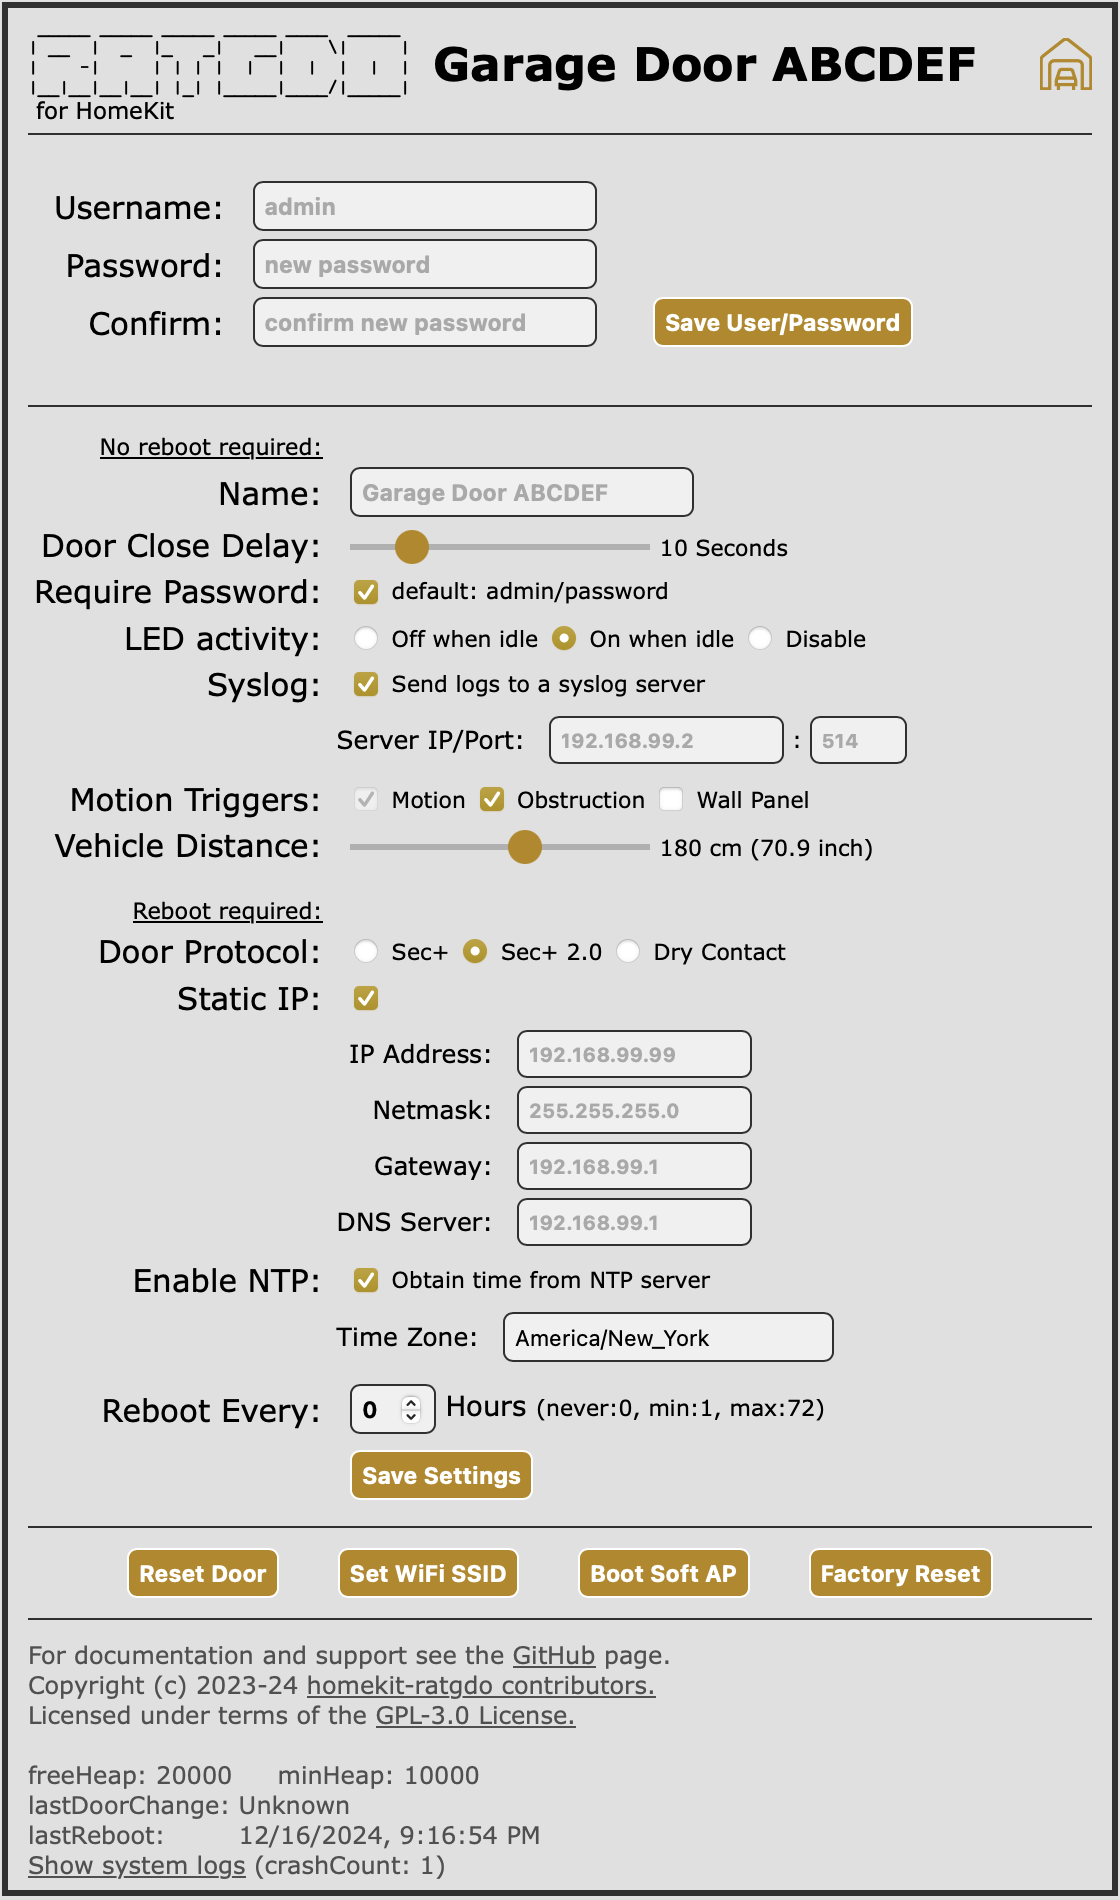
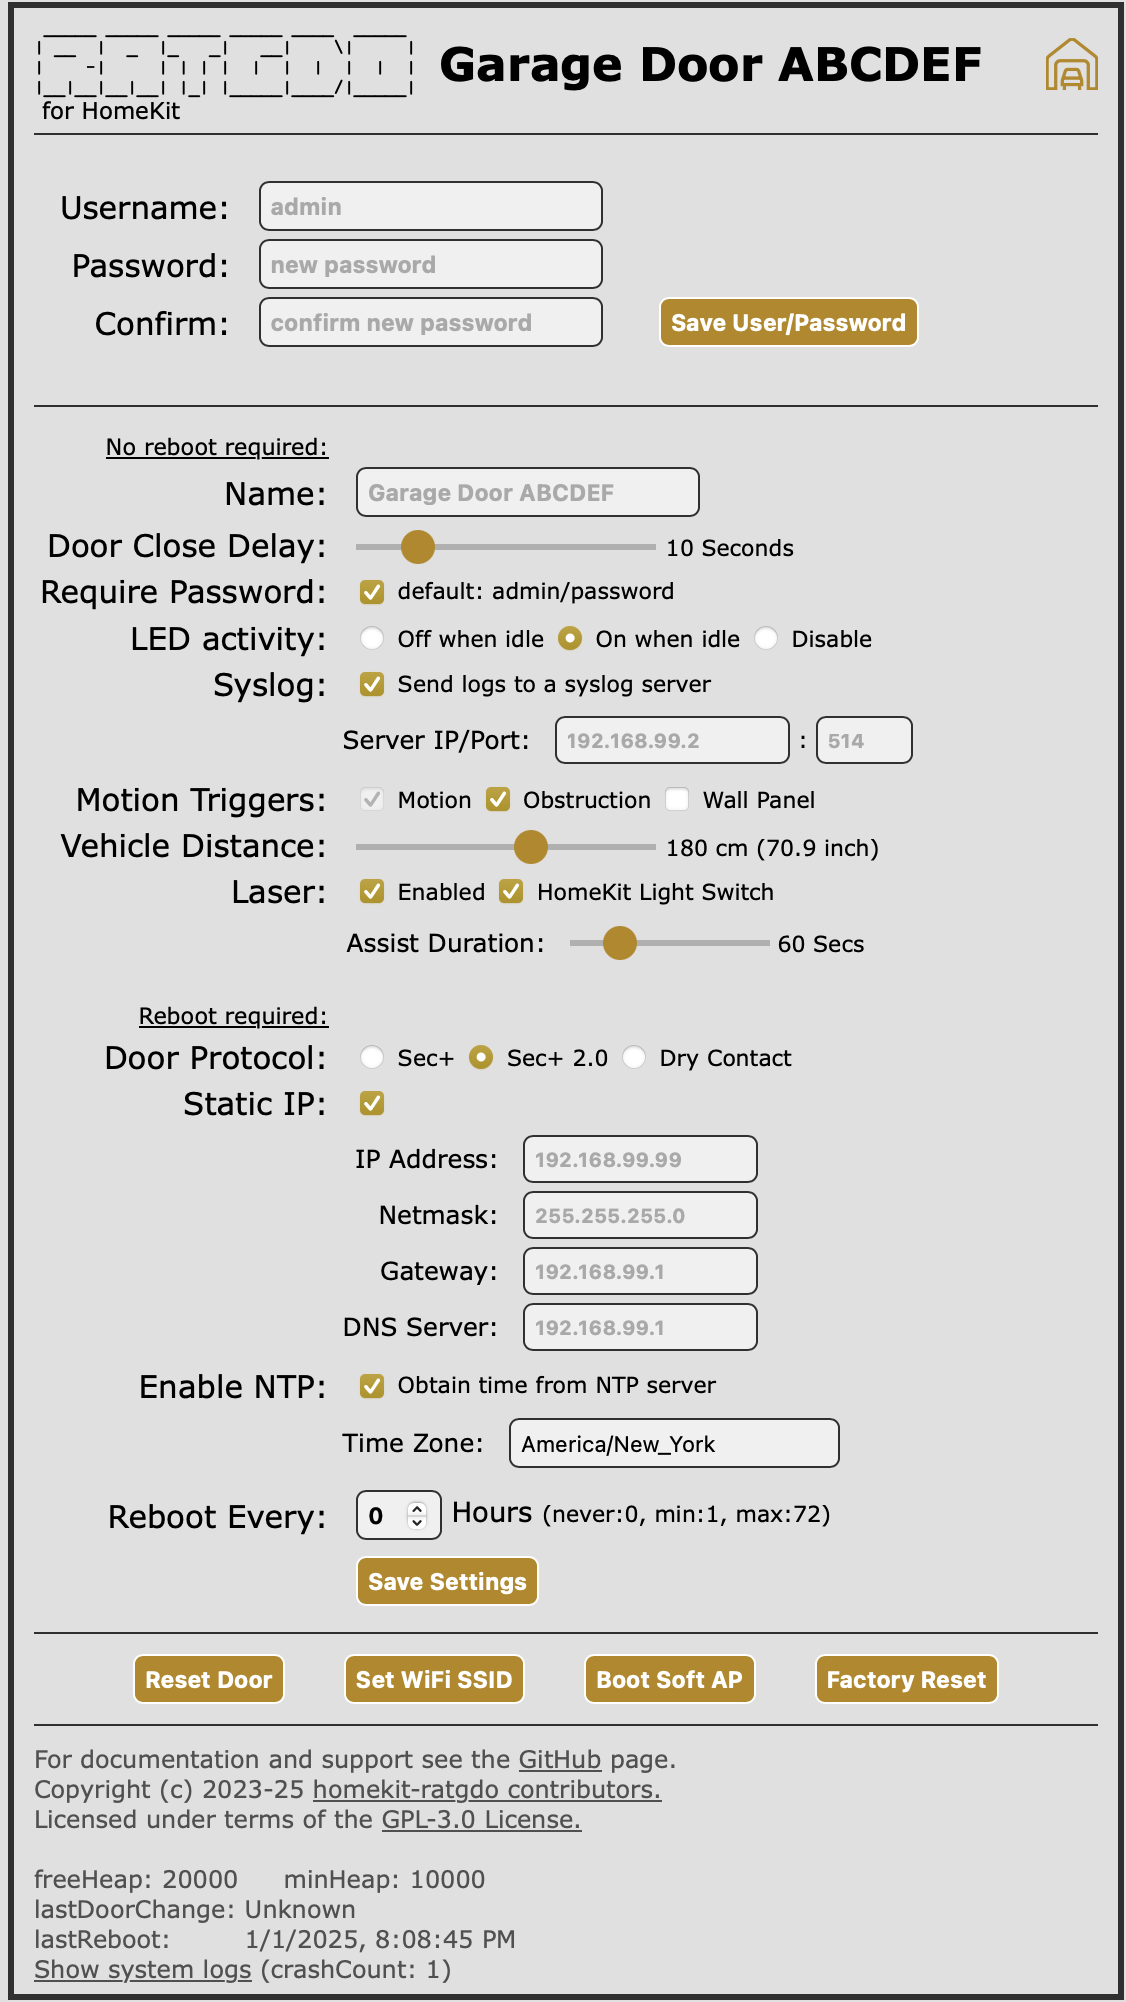
Add user setting for parking assist laser duration. Update README, CHANGELOG, webpage screen shots

diff --git a/src/www/index.html b/src/www/index.html
@@ -2,7 +2,7 @@
 <html lang="en">
 
 <head>
-  <!--  Copyright (c) 2023-24 David Kerr, https://github.com/dkerr64 -->
+  <!--  Copyright (c) 2023-25 David Kerr, https://github.com/dkerr64 -->
   <meta charset="UTF-8">
   <meta name="viewport" content="width=device-width, initial-scale=1.0, maximum-scale=1.0, user-scalable=1">
   <meta name="apple-mobile-web-app-title" content="RATDGO">
@@ -37,7 +37,7 @@
         <div style="float:right;vertical-align: middle; padding-left: 0; padding-right: 0; cursor: pointer;">
           <img id="settings-icon" src="settings-sliders.svg?v=CRC-32" alt="Settings" style="width:1.5em;height:1.5em;">
           <img id="main-icon" src="garage-car.svg?v=CRC-32" alt="Homepage" onclick="history.back()"
-            style="display:none; width:1.5em;height:1.5em;">
+            style="display:none; width:1.5em; height:1.5em;">
         </div>
       </div>
       <!-- Main section of page ------------------------------------------------------------------>
@@ -188,7 +188,7 @@
             <table class="settings">
               <tr>
                 <td style="font-size: 0.65em;"><u>No reboot required:</u></td>
-                <td></td>
+                <td style="width: 70%;"></td>
               </tr>
               <tr>
                 <td class="label">Name:</td>
@@ -274,13 +274,29 @@
                 </td>
               </tr>
               <tr id="laserSetting" style="display:none;">
-                <td class="label">Park Assist Laser:</td>
+                <td class="label">Laser:</td>
                 <td>&nbsp;
                   <input type="checkbox" id="laserEnabled" name="laserEnabled" value="no"
                     onchange="enableLaser(this.checked)">
                   <label for="laserEnabled">Enabled</label>
                   <input type="checkbox" id="laserHomeKit" name="laserHomeKit" value="no" disabled>
                   <label for="laserHomeKit">HomeKit Light Switch</label>
+                </td>
+              </tr>
+              <tr>
+                <td></td>
+                <td>
+                  <table class="settings" id="parkAssist" style="display: none;">
+                    <tr>
+                      <td class="label">Assist Duration:</td>
+                      <td>&nbsp;
+                        <input type="range" min="0" max="300" value="60" id="assistDuration" name="assistDuration"
+                          class="slider" style="width:100px;">
+                        <span style="vertical-align: middle;"><span
+                            id="assistValue"></span>&nbsp;Secs</span>
+                      </td>
+                    </tr>
+                  </table>
                 </td>
               </tr>
               <tr>
@@ -423,7 +439,7 @@
       <div class="footer">
         <p style="margin:0px;">For documentation and support see the <a
             href="https://github.com/ratgdo/homekit-ratgdo32">GitHub</a>
-          page.<br>Copyright (c) 2023-24 <a
+          page.<br>Copyright (c) 2023-25 <a
             href="https://github.com/ratgdo/homekit-ratgdo32/graphs/contributors">homekit-ratgdo
             contributors.</a><br>Licensed under terms of the <a
             href="https://www.gnu.org/licenses/gpl-3.0.en.html">GPL-3.0
@@ -630,7 +646,14 @@
     vDistSlider.oninput = function () {
       vDistText1.innerHTML = this.value;
       vDistText2.innerHTML = Math.round(this.value / .254) / 10;
-    }
+    };
+
+    PAslider = document.getElementById("assistDuration");
+    PAtext = document.getElementById("assistValue");
+    PAtext.innerHTML = PAslider.value;
+    PAslider.oninput = function () {
+      PAtext.innerHTML = this.value;
+    };
   </script>
 </body>
 

diff --git a/src/www/functions.js b/src/www/functions.js
@@ -1,7 +1,7 @@
 /***********************************************************************
  * homekit-ratgdo web page javascript functions
  *
- * Copyright (c) 2023-24 David Kerr, https://github.com/dkerr64
+ * Copyright (c) 2023-25 David Kerr, https://github.com/dkerr64
  *
  */
 
@@ -131,6 +131,7 @@ function toggleSyslog() {
 function enableLaser(value) {
     document.getElementById('laserHomeKit').disabled = !value;
     document.getElementById("laserButton").style.display = (value) ? "inline-block" : "none";
+    document.getElementById("parkAssist").style.display = (value) ? "table-row" : "none";
 }
 
 // Show or hide the static IP fields
@@ -235,9 +236,14 @@ function setElementsFromStatus(status) {
                 document.getElementById(key).checked = value;
                 document.getElementById("laserButton").style.display = (value) ? "inline-block" : "none";
                 document.getElementById("laserHomeKit").disabled = !value;
+                document.getElementById("parkAssist").style.display = (value) ? "table-row" : "none";
                 break;
             case "laserHomeKit":
                 document.getElementById(key).checked = value;
+                break;
+            case "assistDuration":
+                document.getElementById(key).value = value;
+                document.getElementById("assistValue").innerHTML = value;
                 break;
             case "firmwareVersion":
                 document.getElementById(key).innerHTML = value;
@@ -833,6 +839,9 @@ async function saveSettings() {
     const laserEnabled = (document.getElementById("laserEnabled").checked) ? '1' : '0';
     const laserHomeKit = (document.getElementById("laserHomeKit").checked) ? '1' : '0';
 
+    let assistDuration = Math.max(Math.min(parseInt(document.getElementById("assistDuration").value), 300), 0);
+    if (isNaN(assistDuration)) assistDuration = 0;
+
     const syslogEn = (document.getElementById("syslogEn").checked) ? '1' : '0';
     let syslogIP = document.getElementById("syslogIP").value.substring(0, 15);
     if (syslogIP.length == 0) syslogIP = serverStatus.syslogIP;
@@ -873,6 +882,7 @@ async function saveSettings() {
         "vehicleThreshold", vehicleThreshold,
         "laserEnabled", laserEnabled,
         "laserHomeKit", laserHomeKit,
+        "assistDuration", assistDuration,
         "motionTriggers", motionTriggers,
         "LEDidle", LEDidle,
         "staticIP", staticIP,

diff --git a/src/config.h b/src/config.h
@@ -3,7 +3,7 @@
  * https://ratcloud.llc
  * https://github.com/PaulWieland/ratgdo
  *
- * Copyright (c) 2023-24 David A Kerr... https://github.com/dkerr64/
+ * Copyright (c) 2023-25 David A Kerr... https://github.com/dkerr64/
  * All Rights Reserved.
  * Licensed under terms of the GPL-3.0 License.
  *
@@ -68,6 +68,7 @@ constexpr char cfg_syslogPort[] = "syslogPort";
 constexpr char cfg_vehicleThreshold[] = "vehicleThreshold";
 constexpr char cfg_laserEnabled[] = "laserEnabled";
 constexpr char cfg_laserHomeKit[] = "laserHomeKit";
+constexpr char cfg_assistDuration[] = "assistDuration";
 
 constexpr char nvram_messageLog[] = "messageLog";
 constexpr char nvram_id_code[] = "id_code";
@@ -136,6 +137,7 @@ public:
     int getVehicleThreshold() { return std::get<int>(get(cfg_vehicleThreshold)); };
     bool getLaserEnabled() { return std::get<bool>(get(cfg_laserEnabled)); };
     bool getLaserHomeKit() { return std::get<bool>(get(cfg_laserHomeKit)); };
+    int getAssistDuration() { return std::get<int>(get(cfg_assistDuration)); };
 };
 extern userSettings *userConfig;
 

diff --git a/src/web.cpp b/src/web.cpp
@@ -3,7 +3,7 @@
  * https://ratcloud.llc
  * https://github.com/PaulWieland/ratgdo
  *
- * Copyright (c) 2023-24 David A Kerr... https://github.com/dkerr64/
+ * Copyright (c) 2023-25 David A Kerr... https://github.com/dkerr64/
  * All Rights Reserved.
  * Licensed under terms of the GPL-3.0 License.
  *
@@ -153,7 +153,7 @@ uint8_t subscriptionCount = 0;
 
 SemaphoreHandle_t jsonMutex = NULL;
 
-#define JSON_BUFFER_SIZE 1280
+#define JSON_BUFFER_SIZE 2048
 char *json = NULL;
 
 #define DOOR_STATE(s) (s == 0) ? "Open" : (s == 1) ? "Closed"  \
@@ -501,6 +501,7 @@ void handle_status()
     }
     ADD_BOOL(json, cfg_laserEnabled, userConfig->getLaserEnabled());
     ADD_BOOL(json, cfg_laserHomeKit, userConfig->getLaserHomeKit());
+    ADD_INT(json, cfg_assistDuration, userConfig->getAssistDuration());
     END_JSON(json);
 
     // send JSON straight to serial port

diff --git a/src/utilities.cpp b/src/utilities.cpp
@@ -3,7 +3,7 @@
  * https://ratcloud.llc
  * https://github.com/PaulWieland/ratgdo
  *
- * Copyright (c) 2023-24 David A Kerr... https://github.com/dkerr64/
+ * Copyright (c) 2023-25 David A Kerr... https://github.com/dkerr64/
  * All Rights Reserved.
  * Licensed under terms of the GPL-3.0 License.
  *
@@ -185,6 +185,7 @@ void load_all_config_settings()
     RINFO(TAG, "   vehicleThreshold:    %d", userConfig->getVehicleThreshold());
     RINFO(TAG, "   laserEnabled:        %s", userConfig->getLaserEnabled() ? "true" : "false");
     RINFO(TAG, "   laserHomeKit:        %s", userConfig->getLaserHomeKit() ? "true" : "false");
+    RINFO(TAG, "   assistDuration:      %d", userConfig->getAssistDuration());
     RINFO(TAG, "RFC952 device hostname: %s", device_name_rfc952);
 
 #ifdef NTP_CLIENT

diff --git a/src/config.cpp b/src/config.cpp
@@ -3,7 +3,7 @@
  * https://ratcloud.llc
  * https://github.com/PaulWieland/ratgdo
  *
- * Copyright (c) 2023-24 David A Kerr... https://github.com/dkerr64/
+ * Copyright (c) 2023-25 David A Kerr... https://github.com/dkerr64/
  * All Rights Reserved.
  * Licensed under terms of the GPL-3.0 License.
  *
@@ -219,6 +219,7 @@ userSettings::userSettings()
         {cfg_vehicleThreshold, {false, false, 100, helperVehicleThreshold}}, // call fn to set globals
         {cfg_laserEnabled, {false, false, false, helperLaser}},
         {cfg_laserHomeKit, {false, false, true, helperLaser}},
+        {cfg_assistDuration, {false, false, 60, NULL}},
     };
 }
 

diff --git a/src/vehicle.h b/src/vehicle.h
@@ -3,7 +3,7 @@
  * https://ratcloud.llc
  * https://github.com/PaulWieland/ratgdo
  *
- * Copyright (c) 2023-24 David A Kerr... https://github.com/dkerr64/
+ * Copyright (c) 2023-25 David A Kerr... https://github.com/dkerr64/
  * All Rights Reserved.
  * Licensed under terms of the GPL-3.0 License.
  *
@@ -14,7 +14,6 @@
 #include <stdint.h>
 
 #define PRESENCE_DETECT_DURATION (5 * 60 * 1000) // how long to calculate presence after door state change
-#define PARKING_ASSIST_TIMEOUT (60 * 1000) // how long to keep laser on for parking assist.
 
 extern void setup_vehicle();
 extern void vehicle_loop();

diff --git a/src/vehicle.cpp b/src/vehicle.cpp
@@ -167,7 +167,8 @@ void setArriveDepart(bool vehiclePresent)
             vehicleDeparting = false;
             vehicle_motion_timer = lastChangeAt + MOTION_TIMER_DURATION;
             strlcpy(vehicleStatus, "Arriving", sizeof(vehicleStatus));
-            laser.flash(PARKING_ASSIST_TIMEOUT);
+            if (userConfig->getAssistDuration() > 0)
+                laser.flash(userConfig->getAssistDuration() * 1000);
             notify_homekit_vehicle_arriving(vehicleArriving);
         }
     }

diff --git a/README.md b/README.md
@@ -71,7 +71,7 @@ When you first add the device to HomeKit a number of accessories are added:
 * Parking assist laser _light switch_. Only on ratgdo32-disco boards.
 
 Vehicle arrival and departing sensors are only triggered if vehicle motion is detected within 5 minutes of door opening or closing. The parking assist
-laser is activated for one minute when vehicle arrival is detected.
+laser is activated when vehicle arrival is detected.
 
 See below for instructions on setting the distance threshold for triggering vehicle presence.
 
@@ -163,6 +163,19 @@ Ratgdo32-disco boards detect vehicle arrival, departure and presence based on di
 reported in vehicle distance when there is no vehicle present (the approximate distance to the floor) and when the vehicle is parked (the approximate
 distance to the vehicle roof or hood).  Set the vehicle distance slider to between these these two values.  Measured distance can fluctuate so allow
 for this when setting the value.
+
+> [!IMPORTANT]
+> Take care when installing the ratgdo32-disco board that the sensor is not pointing at glass (e.g. your vehicle windshield). You may need tilt the board
+> to point towards the vehicle roof.  If you get unreliable results, you should also remove the yellow sticker that may be on the sensor to protect
+> it from dust during manufacture and shipping.
+
+### Laser
+
+If you have the parking assist laser accessory installed, select this option to enable support and optionally add HomeKit light switch accessory
+to allow for manual or HomeKit automation control.
+
+When enabled, you can configure how long the laser remains on during parking assist by selecting a value from zero to 300 seconds (5 minutes). Selecting
+zero disables parking assist laser.  Parking assist is triggered if an arriving vehicle is detected with 5 minutes of the door opening or closing.
 
 ### Door Protocol
 
@@ -433,4 +446,4 @@ this firmware would never have been necessary.
 
 [Garage icons](https://www.flaticon.com/free-icons/garage) created by Creative Squad - Flaticon
 
-Copyright (c) 2023-24 HomeKit-ratgdo32 [contributors](https://github.com/ratgdo/homekit-ratgdo32/graphs/contributors).
+Copyright (c) 2023-25 HomeKit-ratgdo32 [contributors](https://github.com/ratgdo/homekit-ratgdo32/graphs/contributors).

diff --git a/CHANGELOG.md b/CHANGELOG.md
@@ -4,6 +4,21 @@
 
 All notable changes to `homekit-ratgdo32` will be documented in this file. This project tries to adhere to [Semantic Versioning](http://semver.org/).
 
+## v3.0.5 (2025-01-05)
+
+### What's Changed
+
+* Feature: Add user setting to enable/disable parking assist laser, and set duration of assist laser.
+* Bugfix: Remove multiple copies of web page content from the firmware binary.
+* Bugfix: Use 64-bit integer to handle milliseconds since last boot.
+* Bugfix: Handle more possible return codes from vehicle distance sensor.
+* Bugfix: Door status incorrectly reported to HomeKit if close requested for already closed door (Issue #28).
+* Updated copyright statement(s) to include year 2025.
+
+### Known Issues
+
+* Still testing... Future updates MAY include breaking changes requiring a flash erase and re-upload.
+
 ## v3.0.4 (2024-12-21)
 
 ### What's Changed
